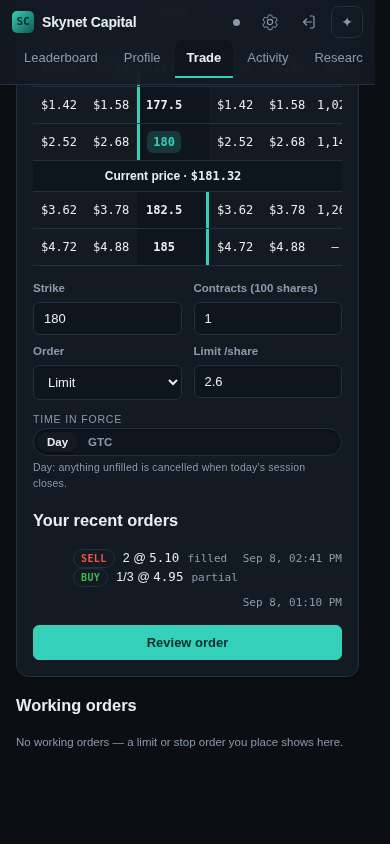
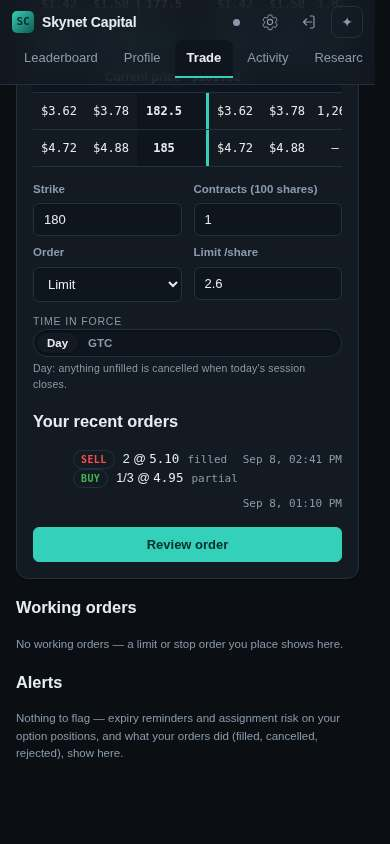
feat(trade): flash the Strike field and box the picked row on a chain click
Eric, 2026-09-22: no standard cue tied a chain-cell click to the Strike
field it filled, or made the picked strike easy to re-find in a
17-column table. A picked row now gets a persistent accent-bordered box
(never a background tint alone — a standing reader is red/green
colourblind) and the Strike field flashes once when a chain click fills
it, never on a hand-typed strike. Built and self-reviewed through two
passes before shipping: the first cut used a hue-only row tint, caught
on review and replaced with the bordered box.

Claude-Session: https://claude.ai/code/session_018Rmye1YZjSnN6XUSMuTZzZ

diff --git a/app/src/shell/option-gate.tsx b/app/src/shell/option-gate.tsx
@@ -125,6 +125,10 @@ export function OptionGate({
   const [chainSym, setChainSym] = useState(initialSymbol ?? "");
   const [expiration, setExpiration] = useState("");
   const [strike, setStrike] = useState(initialStrike ?? "");
+  /** Bumped on every chain-originated strike pick — flashes the Strike field below (see
+   *  `pickStrikeAndCommit`). A counter, not a boolean, so two picks in a row each re-trigger the
+   *  flash even if the field never stopped flashing between them. */
+  const [strikeFlash, setStrikeFlash] = useState(0);
   const [contracts, setContracts] = useState("1");
   const [orderType, setOrderType] = useState<"limit" | "market">("limit");
   const [limitPrice, setLimitPrice] = useState("");
@@ -221,10 +225,13 @@ export function OptionGate({
   /** A one-shot chain pick (a table row or cell click, never a keystroke) — sets the strike and
    *  commits it to `?strike=` immediately. The manual `StrikeField` input goes through `pickStrike`
    *  directly instead (see its `onEdit` wiring below) and commits separately, on blur — see the
-   *  header comment's note on why the two commit on different cadences. */
+   *  header comment's note on why the two commit on different cadences. Also bumps `strikeFlash`
+   *  (Eric, 2026-09-22's standard-pattern ask) — a chain pick, never a keystroke, flashes the
+   *  Strike field below so the click and the field it just filled read as one event. */
   const pickStrikeAndCommit = (value: string) => {
     pickStrike(value);
     onStrikeCommit?.(value);
+    setStrikeFlash((n) => n + 1);
   };
 
   /** A call/put chain cell pick (task 4e) — the resolution rule, already decided (see the header
@@ -255,8 +262,10 @@ export function OptionGate({
     const targetLocked = plays.find((p) => p.code === target)?.locked ?? true;
     if (targetLocked) {
       // Never widen a locked rung from a chain click. Fill strike only — no onStrikeCommit, no
-      // onPreset — but explain why (visible, disabled, explained — never silently dead).
+      // onPreset — but explain why (visible, disabled, explained — never silently dead). Still a
+      // chain-originated pick, so it still flashes the field it filled.
       pickStrike(value);
+      setStrikeFlash((n) => n + 1);
       setLockedPickNote(`Strike filled — the ${side} side isn't unlocked yet.`);
       return;
     }
@@ -423,6 +432,7 @@ export function OptionGate({
               value={strike}
               onEdit={pickStrike}
               onCommit={(v) => onStrikeCommit?.(v)}
+              flashKey={strikeFlash}
             />
           </div>
           <div className="field">

diff --git a/app/src/shell/option-fields.tsx b/app/src/shell/option-fields.tsx
@@ -157,6 +157,7 @@ export function StrikeField({
   value,
   onEdit,
   onCommit,
+  flashKey,
 }: {
   readonly id: string;
   readonly chainData: ChainData | undefined;
@@ -165,9 +166,27 @@ export function StrikeField({
   /** Fires on blur with the field's current value — omit for a caller that doesn't track
    *  `?strike=` (unchanged behavior). */
   readonly onCommit?: (value: string) => void;
+  /** Bumped by the caller on every CHAIN-originated pick (never a keystroke) — a distinct value
+   *  each time re-triggers the destination flash (Eric, 2026-09-22: "what standard design choices
+   *  ... organically communicate this without text"). Omit for a caller with no chain to pick
+   *  from (`draft-leg-form.tsx`, `roll-row.tsx` don't render this field at all). */
+  readonly flashKey?: number;
 }): ReactElement {
   const hasSuggestions = chainData !== undefined && chainData.rows.length > 0;
   const listId = `${id}-strikes`;
+  const [flashing, setFlashing] = useState(false);
+  const firstFlash = useRef(true);
+  useEffect(() => {
+    if (firstFlash.current) {
+      // The mount render (`?strike=` seeded from the URL) is not a pick — never flash on load.
+      firstFlash.current = false;
+      return;
+    }
+    if (!flashKey) return;
+    setFlashing(true);
+    const t = setTimeout(() => setFlashing(false), 320);
+    return () => clearTimeout(t);
+  }, [flashKey]);
   return (
     <>
       <input
@@ -179,6 +198,7 @@ export function StrikeField({
         value={value}
         placeholder="40"
         list={hasSuggestions ? listId : undefined}
+        className={flashing ? "strike-flash" : undefined}
         onChange={(e) => onEdit(e.target.value)}
         onBlur={() => {
           if (value !== "") onCommit?.(value);

diff --git a/app/src/styles/straddle.css b/app/src/styles/straddle.css
@@ -144,6 +144,20 @@
   background: color-mix(in srgb, var(--accent) 16%, var(--surface));
   color: var(--accent);
 }
+/* The picked strike's whole row (Eric, 2026-09-22 — "what standard design choices... communicate
+   this... without text"): the pick button alone read as a small, easy-to-miss change on a
+   17-column row. A light accent wash across the row is the persistent half of the pair (the
+   Strike field's `.strike-flash` above is the momentary half) — `:not(.straddle-strike)` leaves
+   the strike cell's own `--surface-2` background alone, since it already carries the stronger
+   pick-button treatment. The wash alone is a hue-only cue (a standing reader is red/green
+   colourblind — CLAUDE.md's rule, caught on self-review before this shipped): the row's own
+   border also switches to a 2px accent rule, a real weight/shape step over the table's ordinary
+   1px `--border` divider, not just a tone shift. */
+.straddle-selected td:not(.straddle-strike) {
+  background: color-mix(in srgb, var(--accent) 6%, transparent);
+  border-top: 2px solid var(--accent);
+  border-bottom: 2px solid var(--accent);
+}
 /* A strike the multi-leg draft already carries a leg on (#3407 P3 slice 2) — an outline plus
    weight on the strike, never a hue alone (a standing reader is red/green colourblind), and
    distinct from `.straddle-selected` (the single-leg ticket's one strike). */

diff --git a/app/tests/shell/option-gate.spec.tsx b/app/tests/shell/option-gate.spec.tsx
@@ -298,6 +298,27 @@ describe("OptionGate — chain cell picking", () => {
     await waitFor(() => expect(screen.getByLabelText("Strike")).toHaveValue(180));
   });
 
+  it("a chain-cell pick flashes the Strike field (Eric, 2026-09-22)", async () => {
+    render(renderChainPickGate({ plays: playsWithUnlockedTarget }));
+
+    const callCells = await screen.findAllByRole("button", { name: /^Pick the 180 call/ });
+    fireEvent.click(callCells[0] as HTMLElement);
+
+    const strikeInput = screen.getByLabelText("Strike");
+    await waitFor(() => expect(strikeInput).toHaveValue(180));
+    expect(strikeInput.className).toContain("strike-flash");
+  });
+
+  it("a hand-typed strike never flashes the field it's typed into", async () => {
+    render(renderChainPickGate({ plays: playsWithUnlockedTarget }));
+
+    const strikeInput = await screen.findByLabelText("Strike");
+    fireEvent.change(strikeInput, { target: { value: "182.5" } });
+
+    expect(strikeInput).toHaveValue(182.5);
+    expect(strikeInput.className).not.toContain("strike-flash");
+  });
+
   it("different, unlocked rung: commits the strike then presets the target rung", async () => {
     const presets: string[] = [];
     const committedStrikes: string[] = [];

diff --git a/app/src/styles/gate.css b/app/src/styles/gate.css
@@ -55,6 +55,25 @@
   font-size: var(--text-base);
   font-family: var(--sans);
 }
+/* The Strike field's destination flash (Eric, 2026-09-22, "what standard design choices... to
+   organically communicate" a chain click filling this field): a one-shot accent pulse, triggered
+   by `StrikeField`'s `flashKey` prop, distinct from focus/hover — this fires from a CLICK
+   elsewhere on the page, so the member's eye needs a cue at the field itself, not just at the
+   click point. `--dur-spatial` already zeroes under `prefers-reduced-motion` (`theme.css`), so a
+   reduced-motion reader gets the border-color end state instantly instead of a pulse. */
+@keyframes strike-flash {
+  0% {
+    background: color-mix(in srgb, var(--accent) 24%, var(--surface-2));
+    border-color: var(--accent);
+  }
+  100% {
+    background: var(--surface-2);
+    border-color: var(--border);
+  }
+}
+.strike-flash {
+  animation: strike-flash var(--dur-spatial) ease-out;
+}
 .gate {
   border: 1px solid var(--border);
   border-radius: 10px;
